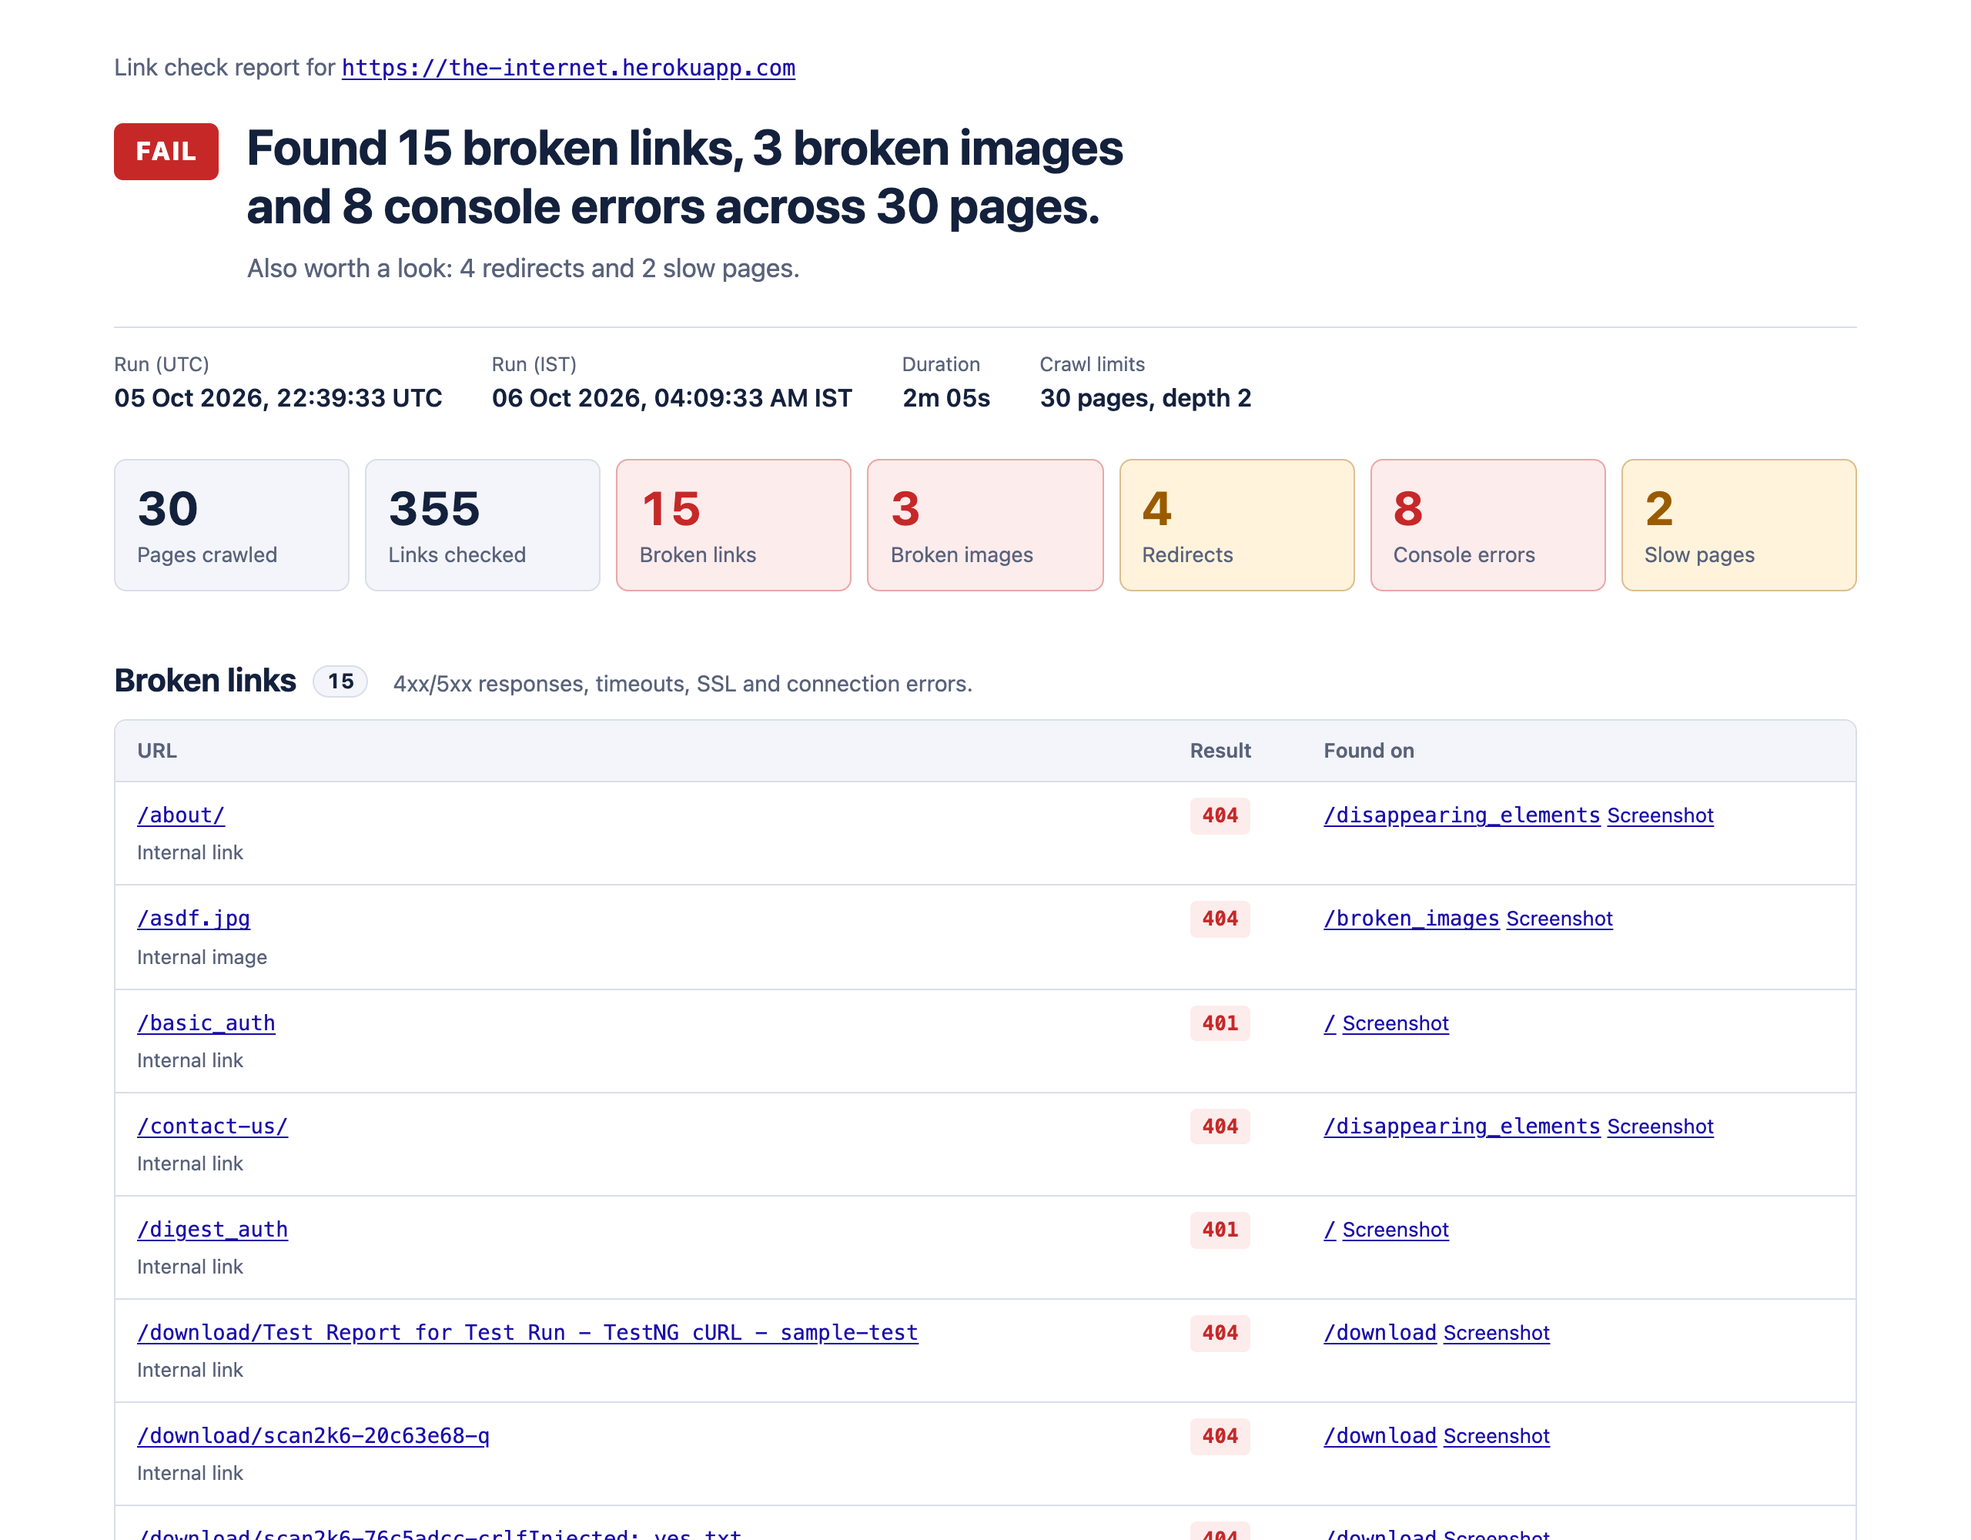
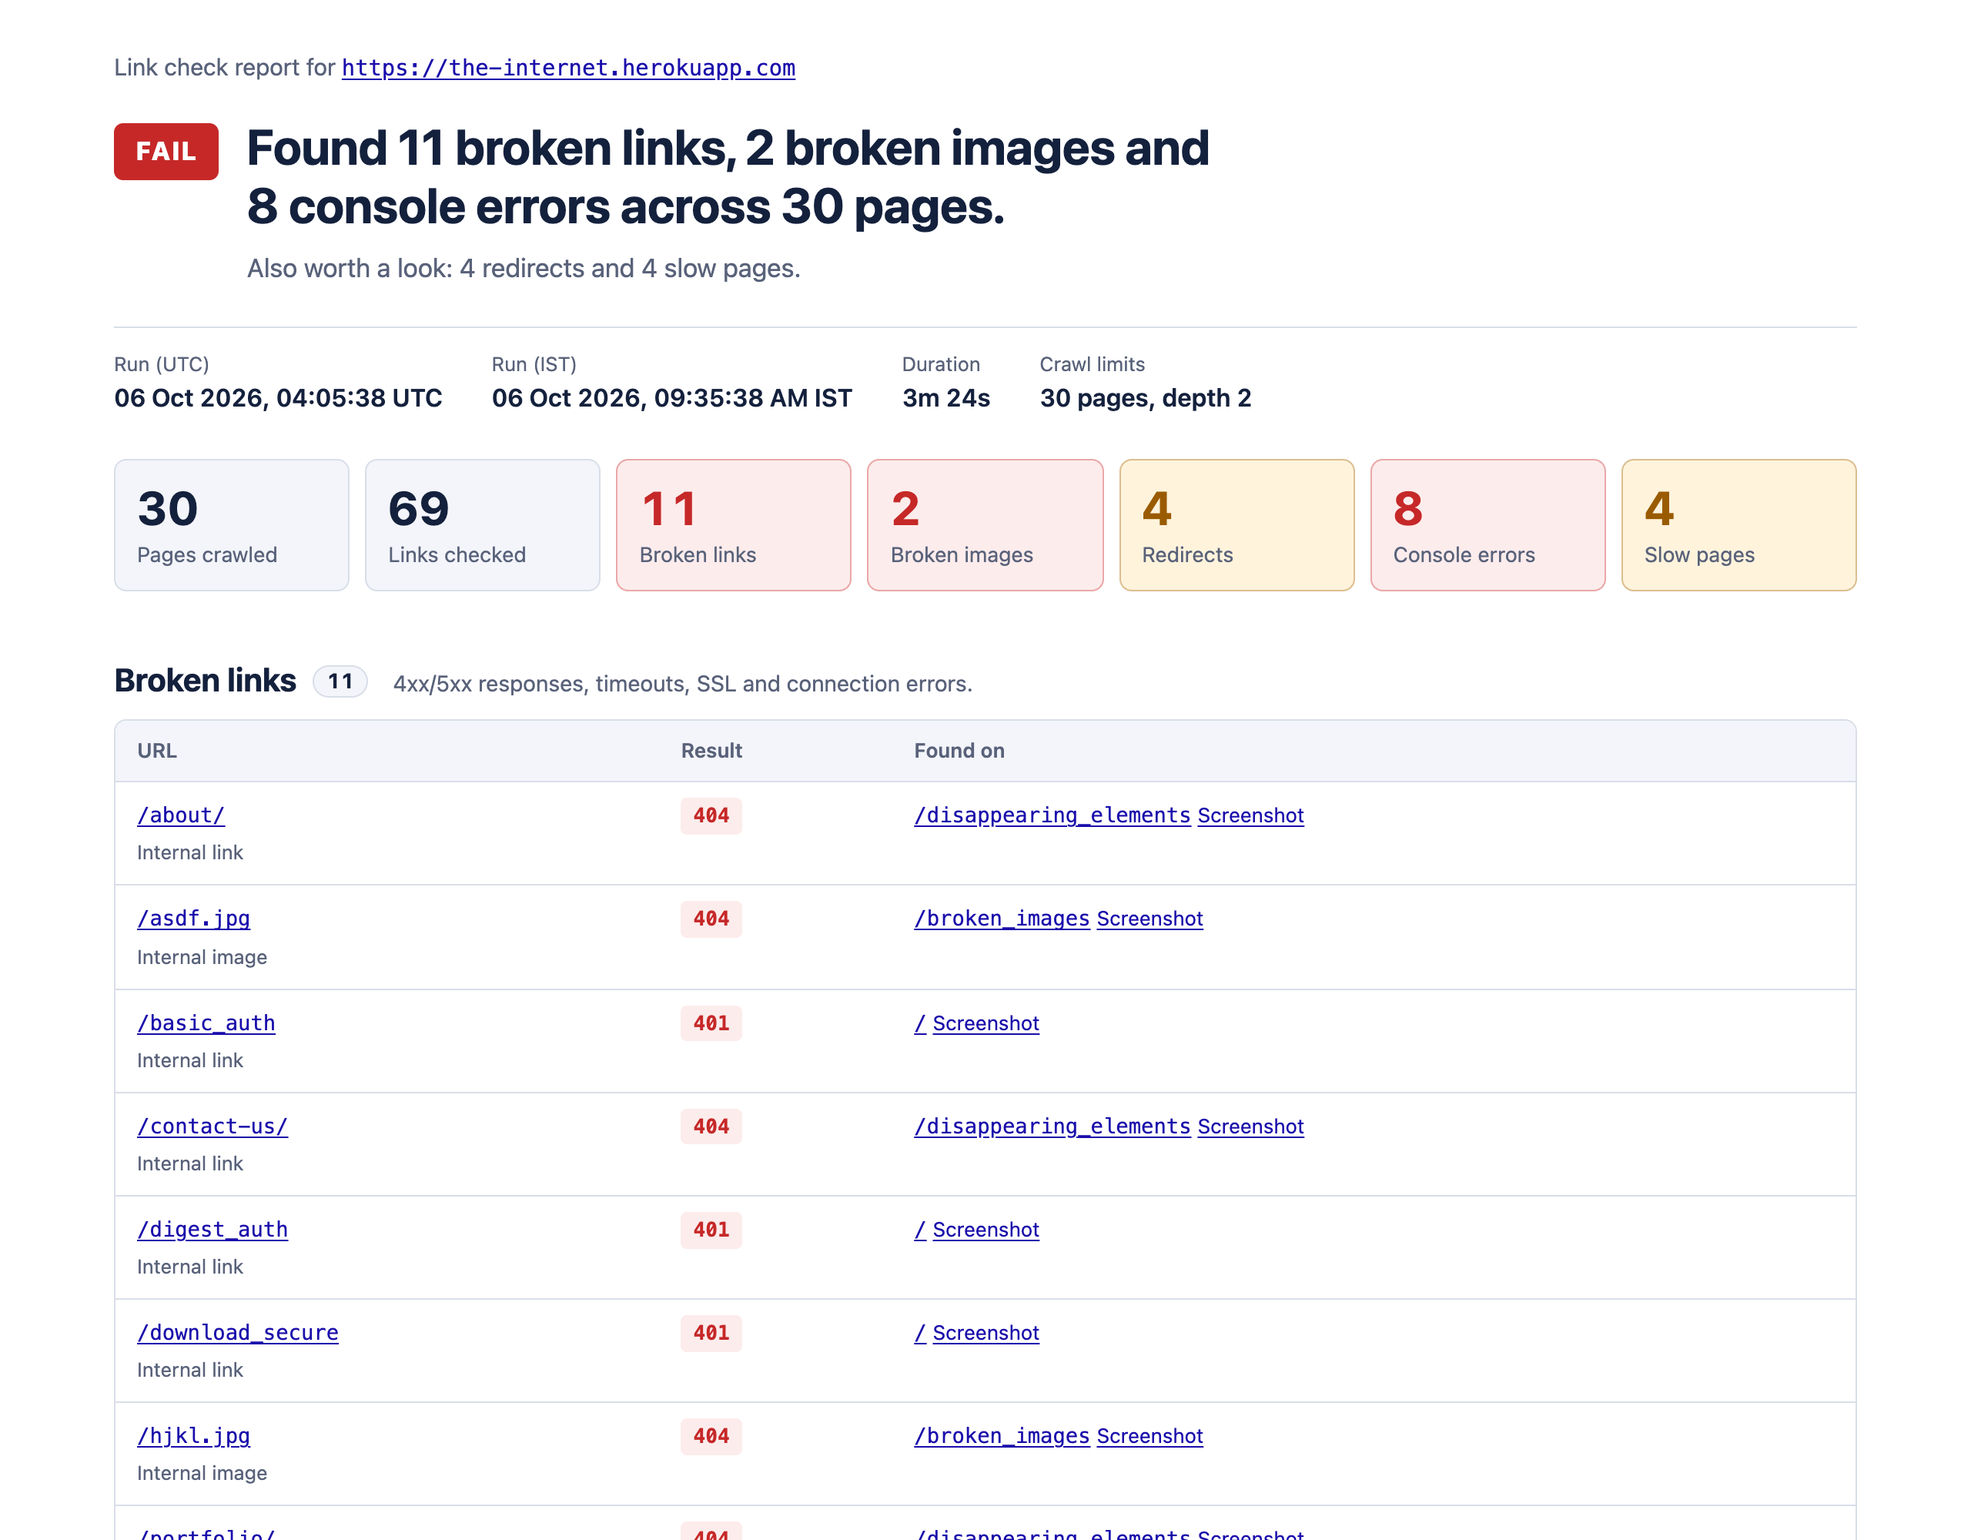
polish readme

diff --git a/README.md b/README.md
@@ -1,16 +1,63 @@
-# selenium-link-checker
+<div align="center">
 
-A Selenium + Python crawler that finds broken links, broken images, JavaScript console errors and slow pages, runs every morning on GitHub Actions, and publishes an HTML report to GitHub Pages.
+<img src="docs/logo.svg" alt="Selenium Link Checker logo" width="110">
 
+# Selenium Link Checker
+
+**Broken Link & Image Checker for Websites**
+
+Crawls a site in headless Chrome to find broken links, broken images, JavaScript errors and slow pages, then publishes an HTML report to GitHub Pages every morning.
+
+![Python](https://img.shields.io/badge/Python-3.14-3776AB?logo=python&logoColor=white)
+![Selenium](https://img.shields.io/badge/Selenium-4.50-43B02A?logo=selenium&logoColor=white)
+![Chrome](https://img.shields.io/badge/Chrome-Headless-4285F4?logo=googlechrome&logoColor=white)
+![Requests](https://img.shields.io/badge/Requests-2.34-2C5BB4?logo=python&logoColor=white)
+![Jinja2](https://img.shields.io/badge/Jinja2-3.1-B41717?logo=jinja&logoColor=white)
+![PyYAML](https://img.shields.io/badge/PyYAML-6.0-CB171E?logo=yaml&logoColor=white)
+<br>
+![pytest](https://img.shields.io/badge/pytest-71%20tests-0A9EDC?logo=pytest&logoColor=white)
+[![GitHub Actions](https://img.shields.io/badge/GitHub%20Actions-Daily-2088FF?logo=githubactions&logoColor=white)](https://github.com/mainak569/selenium-link-checker/actions/workflows/link-check.yml)
+[![GitHub Pages](https://img.shields.io/badge/GitHub%20Pages-Live-222222?logo=githubpages&logoColor=white)](https://mainak569.github.io/selenium-link-checker/)
 [![Link check](https://github.com/mainak569/selenium-link-checker/actions/workflows/link-check.yml/badge.svg)](https://github.com/mainak569/selenium-link-checker/actions/workflows/link-check.yml)
 
-**Live report:** https://mainak569.github.io/selenium-link-checker/ (updated daily at 9:00 AM IST)
+[**Live Report**](https://mainak569.github.io/selenium-link-checker/) · [Features](#features) · [Tech Stack](#tech-stack) · [Getting Started](#getting-started) · [How It Works](#how-it-works) · [Configuration](#configuration) · [CI/CD](#cicd) · [Testing](#testing)
 
-The default target is [the-internet.herokuapp.com](https://the-internet.herokuapp.com), a practice site with deliberately broken pages, so the report always has real findings to show. The run is marked FAIL because of those bugs, but the workflow stays green unless `fail_on_broken` is turned on.
+</div>
 
-![Screenshot of the HTML report](docs/report-screenshot.png)
+---
 
-## Why Selenium and not just `requests`?
+<picture>
+  <source media="(prefers-color-scheme: dark)" srcset="docs/report-screenshot-dark.png">
+  <img alt="The HTML report: overall verdict, summary tiles and the broken links table" src="docs/report-screenshot.png">
+</picture>
+
+The default target is [the-internet.herokuapp.com](https://the-internet.herokuapp.com), a practice site that is broken on purpose, so the report always has real findings. A typical run checks about 350 links across 30 pages in around two minutes. The report says FAIL because of those planted bugs; the workflow itself stays green unless `fail_on_broken` is turned on.
+
+## Features
+
+**What it checks**
+
+- **Broken links**: every unique link and image URL on the crawled pages, internal and external, 10 at a time. HEAD first, GET as a fallback.
+- **Broken images**: images the browser finished loading but couldn't draw, including ones whose URL returns 200.
+- **JavaScript console errors**: SEVERE entries from Chrome's console, grouped by message across pages.
+- **Slow pages**: load time from the Navigation Timing API, flagged above a threshold.
+- **Redirects**: listed as warnings with their final URL, so the links can be updated.
+
+**How it reports**
+
+- A self-contained `index.html` (no external CSS or JS, works offline, light and dark mode), plus `results.json` with the same data.
+- Screenshots of every page that has a problem.
+- A summary table on the GitHub Actions run page.
+- A daily CI run that publishes the latest report to GitHub Pages, even when the check fails.
+
+**How it stays accurate**
+
+- Pages are checked with `requests` before Chrome opens them, so 404s, login prompts and downloads never reach the browser.
+- Timeouts, connection errors, 429 and 5xx are retried; 404s aren't.
+- Pages with problems are loaded again after the crawl, and only problems that happen both times are reported.
+- If Chrome gets stuck on a page, a fresh browser takes over and the crawl carries on.
+
+### Why Selenium and not just `requests`?
 
 A plain HTTP client only sees the server's response. Several real problems only show up once a browser renders the page:
 
@@ -24,40 +71,22 @@ A plain HTTP client only sees the server's response. Several real problems only 
 
 `requests` is still used where it is better: checking HTTP status codes (Selenium has no API for them), and checking hundreds of links in parallel without opening each one in a browser.
 
-## Features
+## Tech Stack
 
-- **Breadth-first crawl** of the start URL's site, limited by depth and page count, using headless Chrome
-- **Broken link check** for every unique link and image URL (internal and external), 10 at a time, HEAD first with a GET fallback
-- **Broken image detection** in the browser, including images that return 200 but can't be drawn
-- **Console error capture** (SEVERE entries) per page, grouped by message across pages
-- **Page load time** from the Navigation Timing API, with slow pages flagged
-- **Screenshots** of every page that has a problem
-- **Redirects** listed as warnings with their final URL, so they can be updated
-- **Flaky-result handling**: transient failures are retried, and browser-side problems must happen again when the page is re-checked after the crawl before they are reported
-- **Reports**: a self-contained `index.html` (no external CSS/JS, works offline), `results.json` with the same data, and a Markdown summary on the GitHub Actions run page
-- **Daily CI run** that deploys the latest report to GitHub Pages, even when the check fails
+| Tool | Used for |
+| --- | --- |
+| **Python 3.14** | The checker itself (3.10+ works) |
+| **Selenium 4.50 + headless Chrome** | Loading pages, reading the live DOM, console logs, timing and screenshots. Selenium Manager downloads the matching chromedriver. |
+| **requests 2.34** | Status codes and redirects, HEAD → GET fallback, parallel checks with a thread pool |
+| **Jinja2 3.1** | Rendering the HTML report, with autoescaping on |
+| **PyYAML 6.0** | Reading `config.yaml` |
+| **pytest 9.1** | 71 unit tests and 1 integration test |
+| **GitHub Actions** | Daily schedule, running the tests and the checker |
+| **GitHub Pages** | Hosting the latest report |
 
-## How it works
+## Getting Started
 
-```mermaid
-flowchart LR
-    cfg["config.yaml<br/>+ CLI flags"] --> crawler["Crawler<br/>BFS, same domain"]
-    crawler -- "each page, in Chrome" --> browser["Browser checks<br/>images, console, timing,<br/>screenshots"]
-    crawler -- "every collected URL" --> links["Link validator<br/>HEAD → GET, 10 threads"]
-    browser --> report["Report<br/>index.html + results.json<br/>+ job summary"]
-    links --> report
-    report --> pages["GitHub Pages"]
-```
-
-1. **Config** (`checker/config.py`): defaults, then `config.yaml`, then CLI flags, validated before anything runs.
-2. **Crawl** (`checker/crawler.py`): takes URLs from a queue, oldest first. Each page is pre-checked with `requests` so the browser never opens a 404, a login prompt or a PDF download. Links are read from the live DOM, normalised and de-duplicated. Same-site links within `max_depth` are queued.
-3. **Browser checks** (`checker/browser_checks.py`): for every page loaded, wait for `document.readyState == "complete"`, then read broken images, console errors and load time, and take a screenshot.
-4. **Link validation** (`checker/link_validator.py`): every unique URL found is checked in parallel with a thread pool.
-5. **Report** (`checker/report.py`): one results dict is written as `results.json`, rendered into `index.html` with Jinja2, and summarised for the GitHub job page. Screenshots of clean pages are deleted.
-
-## Run it locally
-
-Needs Python 3.10+ and Google Chrome. Selenium Manager downloads the matching chromedriver automatically.
+Needs Python 3.10+ and Google Chrome.
 
 ```bash
 git clone https://github.com/mainak569/selenium-link-checker.git
@@ -66,8 +95,8 @@ python3 -m venv .venv
 source .venv/bin/activate          # Windows: .venv\Scripts\activate
 pip install -r requirements.txt
 
-python main.py                                   # uses config.yaml
-open report/index.html                           # macOS; or open it in any browser
+python main.py                     # uses config.yaml
+open report/index.html             # macOS; or open it in any browser
 ```
 
 More examples:
@@ -82,11 +111,29 @@ python main.py --help
 
 | Exit code | Meaning |
 | --- | --- |
-| 0 | Run finished (problems may have been found, but `fail_on_broken` is off) |
-| 1 | Problems found and `fail_on_broken` is on |
-| 2 | The checker couldn't do its job: bad config, start page unreachable, Chrome failed to start |
+| `0` | Run finished (problems may have been found, but `fail_on_broken` is off) |
+| `1` | Problems found and `fail_on_broken` is on |
+| `2` | The checker couldn't do its job: bad config, start page unreachable, Chrome failed to start |
 
 Broken links, broken images and console errors count as problems. Redirects and slow pages are warnings: they are reported but don't fail the run.
+
+## How It Works
+
+```mermaid
+flowchart LR
+    cfg["config.yaml<br/>+ CLI flags"] --> crawler["Crawler<br/>BFS, same domain"]
+    crawler -- "each page, in Chrome" --> browser["Browser checks<br/>images, console, timing,<br/>screenshots"]
+    crawler -- "every collected URL" --> links["Link validator<br/>HEAD → GET, 10 threads"]
+    browser --> report["Report<br/>index.html + results.json<br/>+ job summary"]
+    links --> report
+    report --> pages["GitHub Pages"]
+```
+
+1. **Config** (`checker/config.py`): defaults, then `config.yaml`, then CLI flags, validated before anything runs.
+2. **Crawl** (`checker/crawler.py`): takes URLs from a queue, oldest first. Each page is checked with `requests` before Chrome opens it. Links are read from the live DOM, normalised and de-duplicated, and same-site links within `max_depth` are queued.
+3. **Browser checks** (`checker/browser_checks.py`): for every page, wait for `document.readyState == "complete"`, then read broken images, console errors and load time, and take a screenshot. Pages with problems are loaded once more after the crawl to confirm them.
+4. **Link validation** (`checker/link_validator.py`): every unique URL found is checked in parallel with a thread pool.
+5. **Report** (`checker/report.py`): one results dict is written as `results.json`, rendered into `index.html` with Jinja2, and summarised for the GitHub job page. Screenshots of clean pages are deleted.
 
 ## Configuration
 
@@ -133,7 +180,7 @@ flowchart LR
 - Permissions are kept to `contents: read`, `pages: write` and `id-token: write` (OIDC for the Pages deploy). No secrets are needed.
 - The checker also writes a summary table to the run page through `GITHUB_STEP_SUMMARY`.
 
-## Tests
+## Testing
 
 ```bash
 pytest                    # 71 unit tests, no network or browser, a few seconds
@@ -151,10 +198,10 @@ Integration tests are excluded by default in `pytest.ini` because they need the 
 | `tests/test_report.py` | `index.html` and `results.json` counts, HTML escaping, relative paths, screenshot pruning, job summary |
 | `tests/test_integration.py` | At least 2 broken images found on `/broken_images`, and the working image isn't flagged |
 
-## Design decisions
+## Design Decisions
 
 - **Explicit waits only.** `WebDriverWait` polls for `document.readyState == "complete"`, for `loadEventEnd` to be set, and for images to finish loading. `time.sleep` is used only for the politeness delay and retry backoff, never to wait for the page.
-- **Pre-check pages with `requests` before opening them in Chrome.** Selenium can't see HTTP status codes, and opening a 401 page, a PDF or a ZIP in the browser wastes time or triggers auth prompts and downloads. The pre-check result is reused, so those URLs aren't requested twice.
+- **Check pages with `requests` before opening them in Chrome.** Selenium can't see HTTP status codes, and opening a 401 page, a PDF or a ZIP in the browser wastes time or triggers auth prompts and downloads. The result is reused, so those URLs aren't requested twice.
 - **HEAD first, GET as fallback.** HEAD skips the body. Some servers reject or mishandle it (403/405/501, dropped connections), so those are retried with a streaming GET that only reads the headers.
 - **Retry only what can recover.** Timeouts, connection errors, 429 and 5xx get one more attempt. A 404 or an SSL error won't fix itself, so it isn't retried.
 - **Re-check problem pages after the crawl.** The demo host sometimes answers 503 after a 30s stall, especially while it warms up, which makes CSS, JS and images fail at random. Pages with broken images or console errors are loaded again once the crawl is done, minutes later, and only problems that happen both times are reported. Reloading straight away tended to land in the same bad patch. It's the same idea as re-running failed tests at the end of a suite.
@@ -174,7 +221,7 @@ Integration tests are excluded by default in `pytest.ini` because they need the 
 - **Third-party noise.** A failing analytics or ad script counts as a console error until you ignore it.
 - **The re-check load is partly served from the browser cache**, so a resource that failed once may not be requested again. A problem that only happens some of the time (a real race condition) can also be dropped. The trade-off favours fewer false alarms in a daily report.
 
-## Future improvements
+## Roadmap
 
 - Keep results from every run and show history and trends (new vs fixed issues)
 - Email or Slack alerts when new broken links appear
@@ -182,18 +229,30 @@ Integration tests are excluded by default in `pytest.ini` because they need the 
 - Crawl with several browsers in parallel (a pool of drivers or Selenium Grid) for large sites
 - Login support for checking pages behind authentication
 
-## Project layout
+## Project Structure
 
 ```
-checker/
-  config.py           load config.yaml, merge CLI overrides, validate
-  browser.py          start headless/headed Chrome with console logging
-  crawler.py          BFS crawl, URL normalisation and filtering
-  browser_checks.py   broken images, console errors, load time, screenshots
-  link_validator.py   parallel HTTP checks with HEAD → GET fallback and retries
-  report.py           results.json, index.html, GitHub job summary
-templates/report.html.j2
-tests/
-main.py               command-line entry point
-config.yaml
+selenium-link-checker/
+├── checker/
+│   ├── config.py           load config.yaml, merge CLI overrides, validate
+│   ├── browser.py          start headless/headed Chrome with console logging
+│   ├── crawler.py          BFS crawl, URL normalisation and filtering, re-checks
+│   ├── browser_checks.py   broken images, console errors, load time, screenshots
+│   ├── link_validator.py   parallel HTTP checks with HEAD → GET fallback and retries
+│   └── report.py           results.json, index.html, GitHub job summary
+├── templates/
+│   └── report.html.j2      the report page
+├── tests/                  unit tests + one integration test
+├── .github/workflows/
+│   └── link-check.yml      daily check and Pages deploy
+├── docs/                   logo and report screenshots for this README
+├── main.py                 command-line entry point
+├── config.yaml             default settings
+└── requirements.txt        pinned dependencies
 ```
+
+<div align="center">
+
+Made by [@mainak569](https://github.com/mainak569)
+
+</div>
